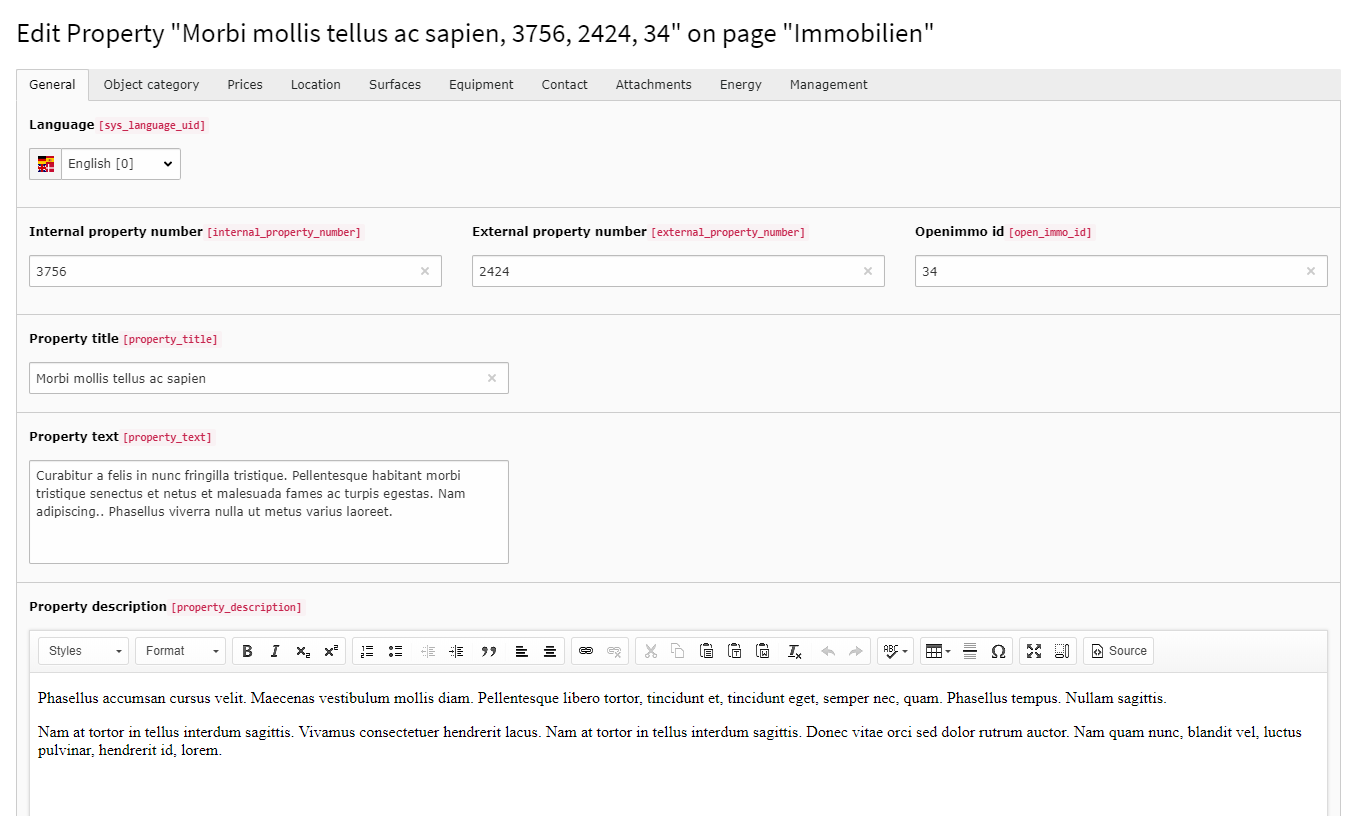
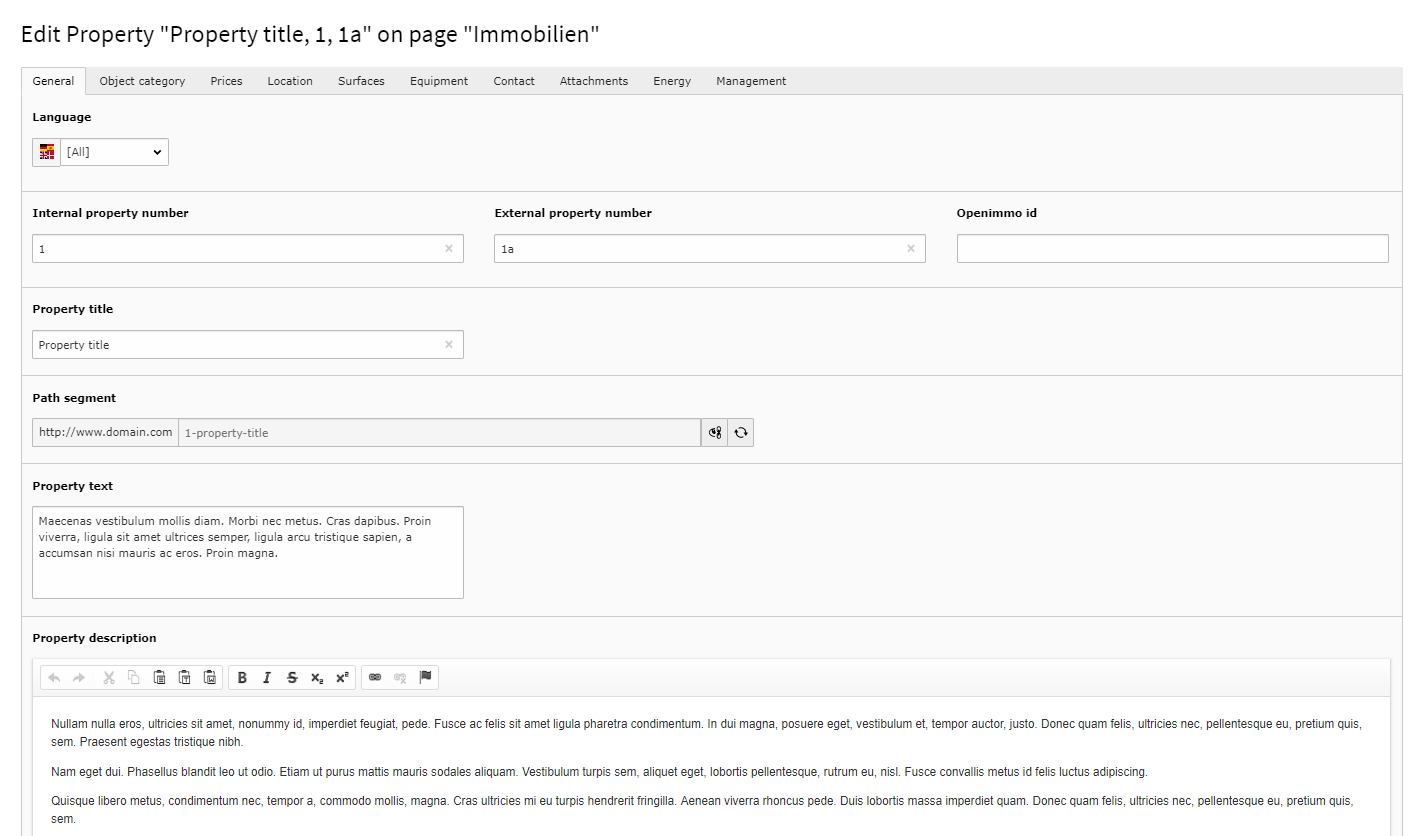
feat: path_segment added bugfix: Ajax didn't work due to missing method parameter version: Version changed to 1.0.2 Doc: Documentation updated refactor: List and search template got an if statement to avoid exception on pagination

diff --git a/Resources/Private/Templates/Property/SearchResults.html b/Resources/Private/Templates/Property/SearchResults.html
@@ -8,22 +8,29 @@
 				<h2><f:translate key="listing.title"/></h2>
 				<div class="container">
 					<div class="row">
-						<f:if condition="{settings.list.hidePagination} == 1">
+						<f:if condition="{propertiess}">
 							<f:then>
-								<f:for each="{propertiess}" as="property">
-									<div class="col-sm-12">
-										<f:render partial="Property/Item" arguments="{_all}"/>
-									</div>
-								</f:for>
+								<f:if condition="{settings.list.hidePagination} == 1">
+									<f:then>
+										<f:for each="{propertiess}" as="property">
+											<div class="col-sm-12">
+												<f:render partial="Property/Item" arguments="{_all}"/>
+											</div>
+										</f:for>
+									</f:then>
+									<f:else>
+										<f:widget.paginate objects="{propertiess}" as="propertiesPaginated" configuration="{itemsPerPage: settings.list.paginate.itemsPerPage, insertAbove: 0, insertBelow: 1, maximumNumberOfLinks: 10}">
+											<f:for each="{propertiesPaginated}" as="property">
+												<div class="col-sm-12">
+													<f:render partial="Property/Item" arguments="{_all}"/>
+												</div>
+											</f:for>
+										</f:widget.paginate>
+									</f:else>
+								</f:if>
 							</f:then>
 							<f:else>
-								<f:widget.paginate objects="{propertiess}" as="propertiesPaginated" configuration="{itemsPerPage: settings.list.paginate.itemsPerPage, insertAbove: 0, insertBelow: 1, maximumNumberOfLinks: 10, addQueryStringMethod: 'POST,GET'}">
-									<f:for each="{propertiesPaginated}" as="property">
-										<div class="col-sm-12">
-											<f:render partial="Property/Item" arguments="{_all}"/>
-										</div>
-									</f:for>
-								</f:widget.paginate>
+								<p>There are no properties. Make sure you set them to public under the <strong>management tab</strong></p>
 							</f:else>
 						</f:if>
 					</div>

diff --git a/Resources/Private/Templates/Property/List.html b/Resources/Private/Templates/Property/List.html
@@ -8,22 +8,29 @@
 				<h2><f:translate key="listing.title"/></h2>
 				<div class="container">
 					<div class="row">
-						<f:if condition="{settings.list.hidePagination} == 1">
+						<f:if condition="{propertiess}">
 							<f:then>
-								<f:for each="{propertiess}" as="property">
-									<div class="col-sm-12">
-										<f:render partial="Property/Item" arguments="{_all}"/>
-									</div>
-								</f:for>
+								<f:if condition="{settings.list.hidePagination} == 1">
+									<f:then>
+										<f:for each="{propertiess}" as="property">
+											<div class="col-sm-12">
+												<f:render partial="Property/Item" arguments="{_all}"/>
+											</div>
+										</f:for>
+									</f:then>
+									<f:else>
+										<f:widget.paginate objects="{propertiess}" as="propertiesPaginated" configuration="{itemsPerPage: settings.list.paginate.itemsPerPage, insertAbove: 0, insertBelow: 1, maximumNumberOfLinks: 10}">
+											<f:for each="{propertiesPaginated}" as="property">
+												<div class="col-sm-12">
+													<f:render partial="Property/Item" arguments="{_all}"/>
+												</div>
+											</f:for>
+										</f:widget.paginate>
+									</f:else>
+								</f:if>
 							</f:then>
 							<f:else>
-								<f:widget.paginate objects="{propertiess}" as="propertiesPaginated" configuration="{itemsPerPage: settings.list.paginate.itemsPerPage, insertAbove: 0, insertBelow: 1, maximumNumberOfLinks: 10}">
-									<f:for each="{propertiesPaginated}" as="property">
-										<div class="col-sm-12">
-											<f:render partial="Property/Item" arguments="{_all}"/>
-										</div>
-									</f:for>
-								</f:widget.paginate>
+								<p>There are no properties. Make sure you set them to public under the <strong>management tab</strong></p>
 							</f:else>
 						</f:if>
 					</div>

diff --git a/Resources/Public/JavaScript/main.js b/Resources/Public/JavaScript/main.js
@@ -6,7 +6,8 @@ $(document).ready(function ($) {
 			$.ajax({
 				url: form.attr('data-xhr'),
 				cache: false,
-				data: form.serialize(),
+				method: 'POST',
+				data: data.serialize(),
 				success: function (result) {
 					$('.foundProperties').empty().append(result);
 

diff --git a/Configuration/TCA/Overrides/tx_ifabrikrealestate_domain_model_property.php b/Configuration/TCA/Overrides/tx_ifabrikrealestate_domain_model_property.php
@@ -72,7 +72,7 @@ $GLOBALS['TCA'][$tableName]['types'][1] = [
     'showitem' => '
 	    --div--;LLL:EXT:ifab_realestate/Resources/Private/Language/locallang_db.xlf:tab_general, 
 	        --palette--;;property_palette_100,
-            --palette--;;property_palette_0, property_title, property_text, property_description, property_equipment, property_location, addition_information,
+            --palette--;;property_palette_0, property_title, path_segment, property_text, property_description, property_equipment, property_location, addition_information,
         --div--;LLL:EXT:ifab_realestate/Resources/Private/Language/locallang_db.xlf:tab_property_category, 
             property_usage_rel, marketing_method_rel, property_nature_rel, property_type_value_rel,
         --div--;LLL:EXT:ifab_realestate/Resources/Private/Language/locallang_db.xlf:tab_prices, 
@@ -114,5 +114,24 @@ $GLOBALS['TCA'][$tableName]['columns']['address_rel'] = [
             ['LLL:EXT:ifab_realestate/Resources/Private/Language/locallang_db.xlf:select_empty', ''],
         ],
         'foreign_table' => 'tx_ifabrealestate_domain_model_address',
+    ],
+];
+
+$GLOBALS['TCA'][$tableName]['columns']['path_segment'] = [
+    'exclude' => 0,
+    'label' => 'LLL:EXT:ifab_realestate/Resources/Private/Language/locallang_db.xlf:tx_ifabrealestate_domain_model_property.path_segment',
+    'config' => [
+        'type' => 'slug',
+        'size' => 50,
+        'generatorOptions' => [
+            'fields' => ['uid','property_title'],
+            'fieldSeparator' => '-',
+            'replacements' => [
+                '/' => '-'
+            ],
+        ],
+        'fallbackCharacter' => '-',
+        'eval' => 'uniqueInSite',
+        'default' => ''
     ],
 ];

diff --git a/Classes/Domain/Model/Property.php b/Classes/Domain/Model/Property.php
@@ -26,6 +26,12 @@ class Property extends \TYPO3\CMS\Extbase\DomainObject\AbstractEntity
     protected $floor = '';
 
     /**
+     * @var string
+     */
+    protected $pathSegment;
+
+
+    /**
      * Indicates the number of floors of the whole building
      *
      * @var string
@@ -2412,4 +2418,25 @@ class Property extends \TYPO3\CMS\Extbase\DomainObject\AbstractEntity
     {
         $this->attachmentsRel = $attachmentsRel;
     }
+
+    /**
+     * Get path segment
+     *
+     * @return string
+     */
+    public function getPathSegment()
+    {
+        return $this->pathSegment;
+    }
+
+    /**
+     * Set path segment
+     *
+     * @param string $pathSegment
+     */
+    public function setPathSegment($pathSegment)
+    {
+        $this->pathSegment = $pathSegment;
+    }
+
 }

diff --git a/ext_emconf.php b/ext_emconf.php
@@ -18,7 +18,7 @@ $EM_CONF[$_EXTKEY] = [
     'uploadfolder' => 1,
     'createDirs' => '',
     'clearCacheOnLoad' => 0,
-    'version' => '1.0.1',
+    'version' => '1.0.2',
     'constraints' => [
         'depends' => [
             'typo3' => '9.5.0-9.5.99',

diff --git a/Documentation/Introduction/Screenshots/Index.rst b/Documentation/Introduction/Screenshots/Index.rst
@@ -34,3 +34,38 @@ Screenshots
     :class: with-shadow
     :width: 80%
     :alt: Backend
+
+**Examples**
+
+.. figure:: ../../Images/examples.png
+    :class: with-shadow
+    :width: 80%
+    :alt: Examples
+
+**Image groups**
+
+The extension uses the OpenImmo structure. OpenImmo defines groups for each image to make the usage of the image easier.
+You can name the groups as you like. It makes it easier if you want for example to get the **property layout** and display
+it on another section of the page.
+
+.. figure:: ../../Images/group2.png
+    :class: with-shadow
+    :width: 80%
+    :alt: Group 2
+
+.. figure:: ../../Images/group1.png
+    :class: with-shadow
+    :width: 80%
+    :alt: Group 1
+
+Now you can do something like that:
+
+.. code-block:: html
+
+  <f:for each="{property.attachmentsRel}" as="attachment" iteration="iterator">
+    <f:for each="{attachment.attachmentGroupValueRel}" as="groupValue">
+      <f:if condition="{groupValue.value} == 'Grundriss'">
+        <f:image image="{attachment.file}"/>
+      </f:if>
+    </f:for>
+  </f:for>

diff --git a/Documentation/Administrator/Index.rst b/Documentation/Administrator/Index.rst
@@ -13,3 +13,4 @@ This section covers the installation and the minimum TypoScript requirements in 
     Installation/Index
     Templates/Index
     TypoScript/Index
+    Url/Index
